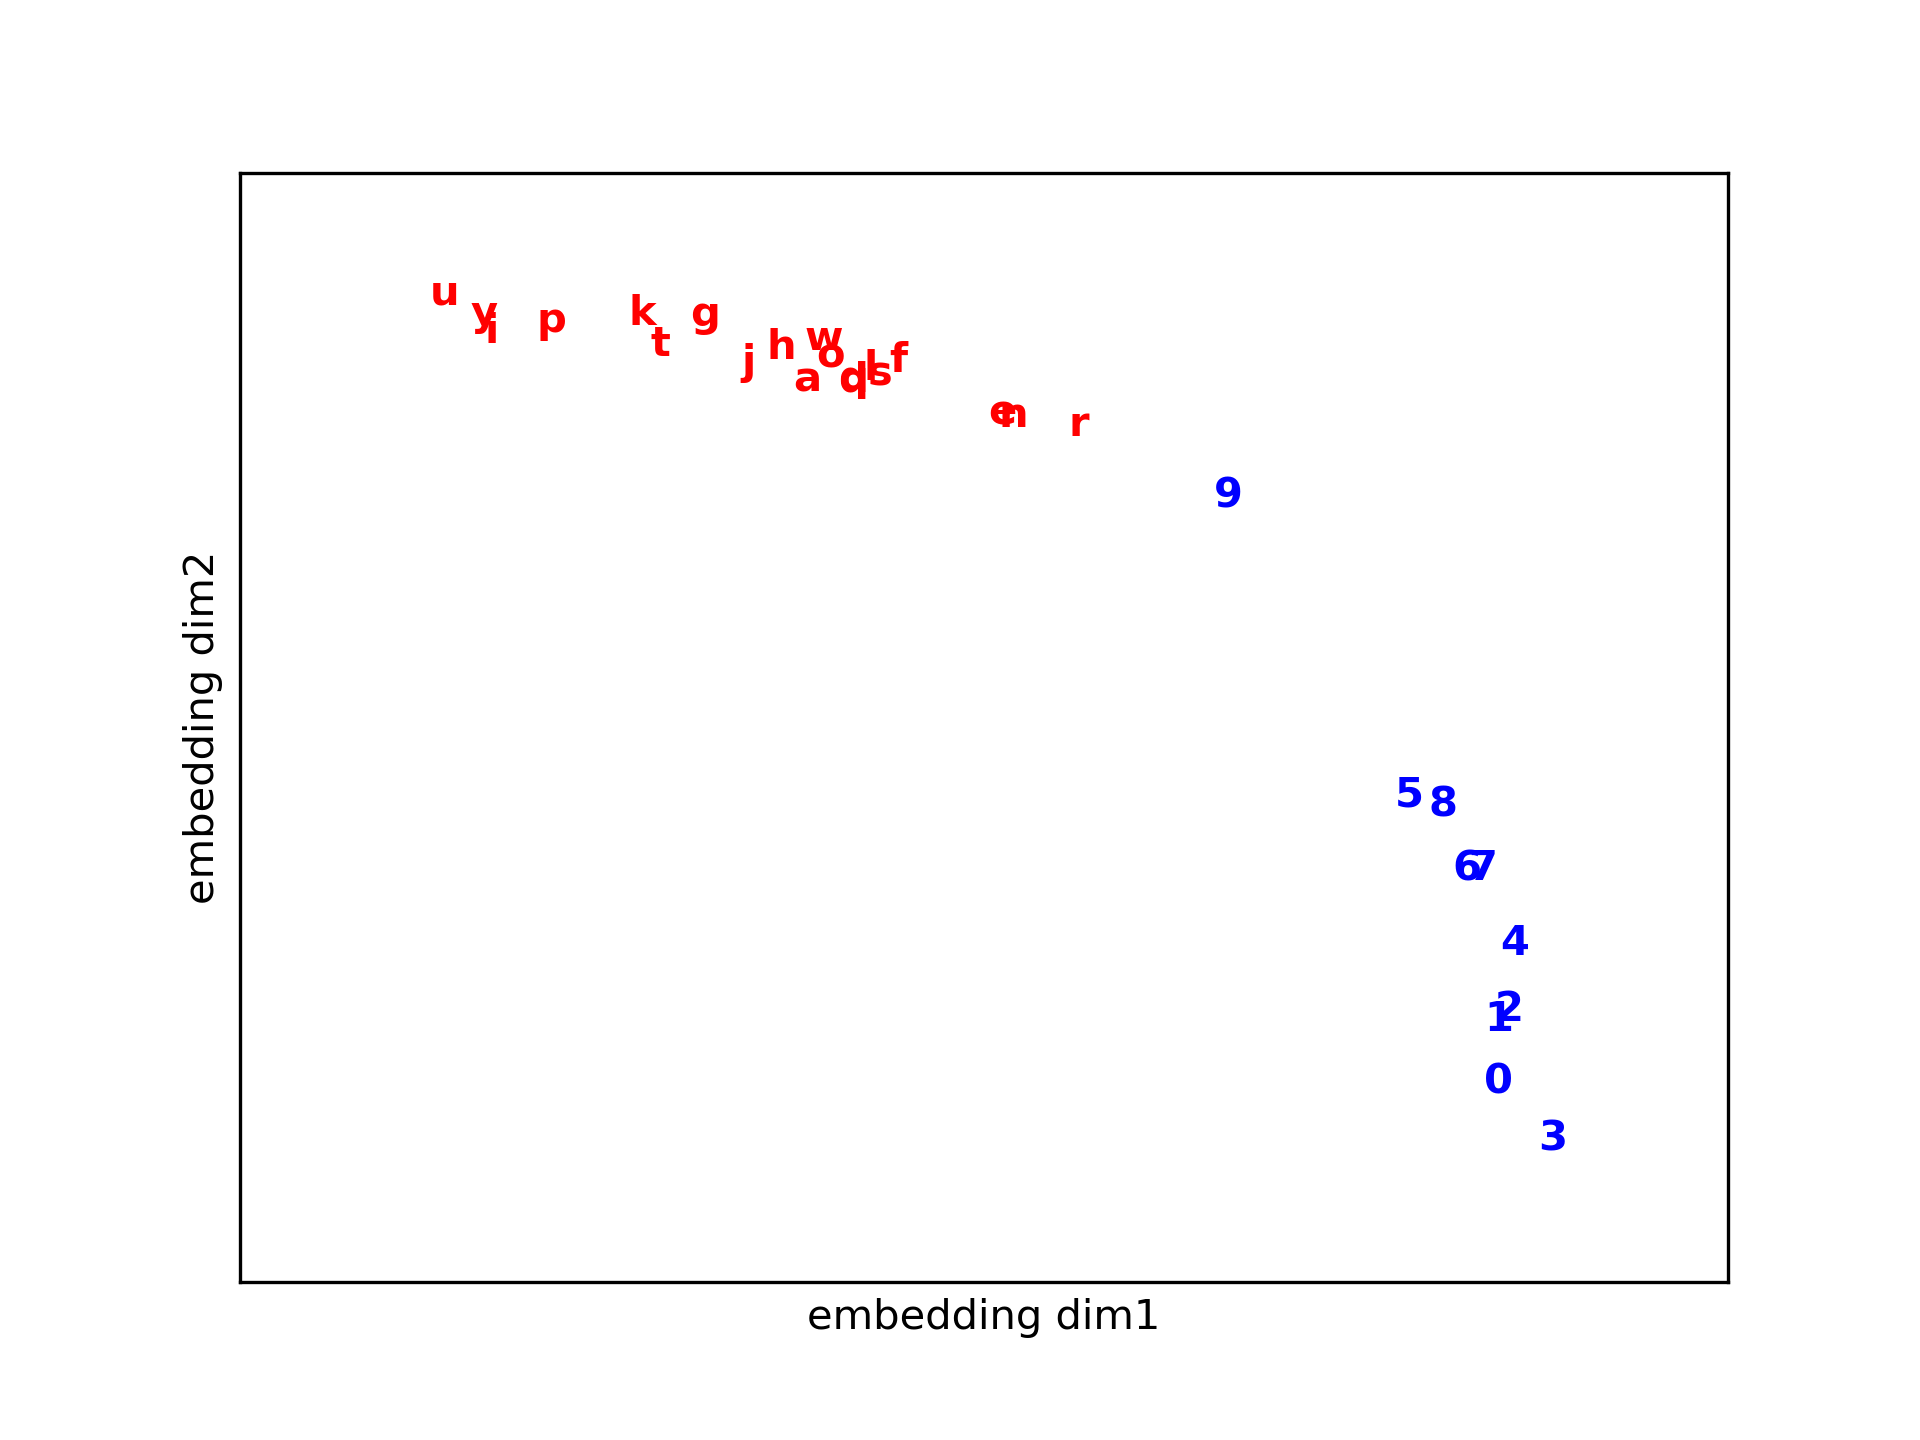
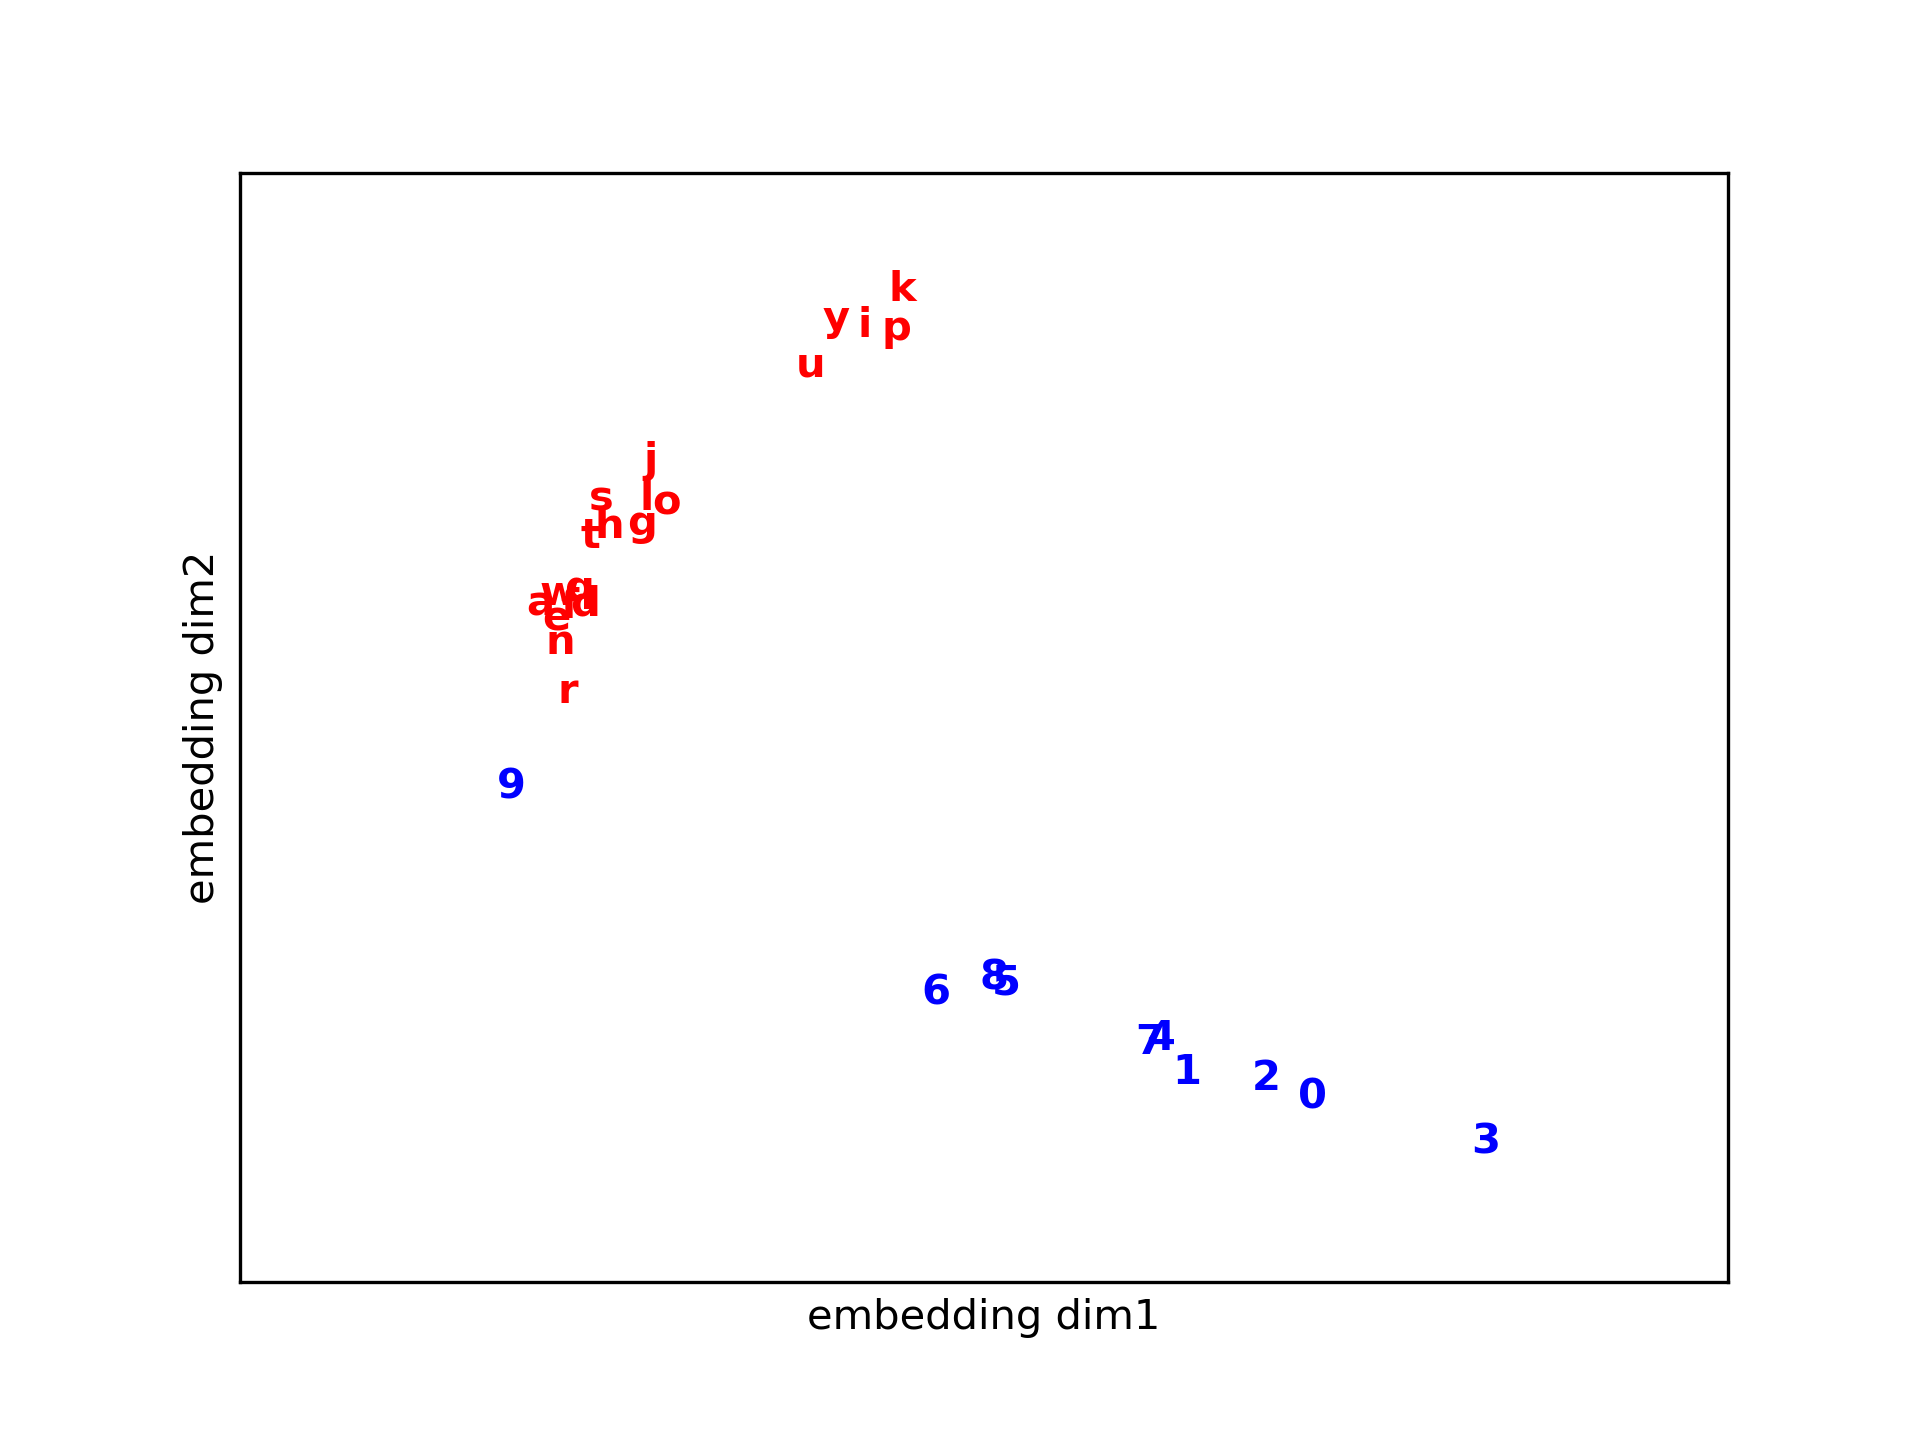
update

diff --git a/CBOW.py b/CBOW.py
@@ -1,7 +1,6 @@
+from tensorflow import keras
 import tensorflow as tf
-import numpy as np
-import matplotlib.pyplot as plt
-import itertools
+from utils import process_w2v_data, show_w2v_word_embedding
 
 corpus = [
     # numbers
@@ -14,88 +13,74 @@ corpus = [
     "9 3 3 0 1 4 7 8",
     "9 9 8 5 6 7 1 2 3 0 1 0",
 
-    # alphabets
-    "a t g q e h u f",
+    # alphabets, expecting that 9 is close to letters
+    "a t g q e h 9 u f",
     "e q y u o i p s",
-    "q o p l k j o k k o p",
+    "q o 9 p l k j o k k o p",
     "h g y i u t t a e q",
-    "i k d q r e e a d",
-    "o p d g s a f g a",
+    "i k d q r e 9 e a d",
+    "o p d g 9 s a f g a",
     "i u y g h k l a s w",
     "o l u y a o g f s",
     "o p i u y g d a s j d l",
-    "u k i l o l j s",
+    "u k i l o 9 l j s",
     "y g i s h k j l f r f",
+    "i o h n 9 9 d 9 f a 9",
 ]
 
-all_words = [sentence.split(" ") for sentence in corpus]
-all_words = np.array(list(itertools.chain(*all_words)))
-# vocab sort by decreasing frequency for the negative sampling below (nce_loss).
-vocab, v_count = np.unique(all_words, return_counts=True)
-vocab = vocab[np.argsort(v_count)[::-1]]
 
-print("all vocabularies sorted from more frequent to less frequent:\n", vocab)
-v2i = {v: i for i, v in enumerate(vocab)}
-i2v = {i: v for v, i in v2i.items()}
+class CBOW(keras.Model):
+    def __init__(self, v_dim, emb_dim):
+        super().__init__()
+        self.v_dim = v_dim
+        self.embeddings = keras.layers.Embedding(
+            input_dim=v_dim, output_dim=emb_dim,  # [n_vocab, emb_dim]
+            embeddings_initializer=tf.initializers.RandomNormal(0., 0.1),
+        )
 
-# pair data
-pairs = []
-skip_window = 2
-js = list(range(-skip_window, skip_window+1))
-js.remove(0)    # remove center
-for c in corpus:
-    words = c.split(" ")
-    w_idx = [v2i[w] for w in words]
-    for i in range(skip_window, len(w_idx)-skip_window):
-        context = []
-        for j in js:
-            context.append(w_idx[i+j])
-        pairs.append(context + [w_idx[i]])  # (contexts, center) or (feature, target)
-pairs = np.array(pairs)
-print("5 example pairs:\n", pairs[:5])
-x, y = pairs[:, :-1], pairs[:, -1]
+        # noise-contrastive estimation
+        self.nce_w = self.add_weight(
+            name="nce_w", shape=[v_dim, emb_dim],
+            initializer=tf.initializers.TruncatedNormal(0., 1.))  # [n_vocab, emb_dim]
+        self.nce_b = self.add_weight(
+            name="nce_b", shape=(v_dim,),
+            initializer=tf.initializers.Constant(0.1))  # [n_vocab, ]
 
-# inputs
-tfx = tf.placeholder(tf.int32, [None, 2*skip_window])
-tfy = tf.placeholder(tf.int32, [None, ])
+        self.opt = tf.optimizers.Adam(0.01)
 
-emb_dim = 2
-embeddings = tf.Variable(tf.random_uniform((len(vocab), emb_dim), -1., 1.))     # [n_vocab, emb_dim]
-span_embedded = tf.nn.embedding_lookup(embeddings, tfx)                         # [n, span, emb_dim]
-embedded = tf.reduce_mean(span_embedded, axis=1)                                # [n, emb_dim]
+    def call(self, x, training=None, mask=None):
+        # x.shape = [n, skip_window*2]
+        o = self.embeddings(x)          # [n, skip_window*2, emb_dim]
+        o = tf.reduce_mean(o, axis=1)   # [n, emb_dim]
+        return o
 
-# noise-contrastive estimation
-nce_w = tf.Variable(tf.random_uniform((len(vocab), emb_dim), -1., 1.))          # [n_vocab, emb_dim]
-nce_b = tf.Variable(tf.constant(0.1, shape=(len(vocab),)))                      # [n_vocab, ]
+    # negative sampling: take one positive label and num_sampled negative labels to compute the loss
+    # in order to reduce the computation of full softmax
+    def loss(self, x, y, training=None):
+        embedded = self.call(x, training)
+        return tf.reduce_mean(
+            tf.nn.nce_loss(
+                weights=self.nce_w, biases=self.nce_b, labels=tf.expand_dims(y, axis=1),
+                inputs=embedded, num_sampled=5, num_classes=self.v_dim))
 
-# negative sampling: take one positive label and num_sampled negative labels to compute the loss
-# in order to reduce the computation of full softmax
-loss = tf.reduce_mean(
-  tf.nn.nce_loss(weights=nce_w, biases=nce_b, labels=tf.expand_dims(tfy, axis=1),
-                 inputs=embedded, num_sampled=5, num_classes=len(vocab)))
+    def step(self, x, y):
+        with tf.GradientTape() as tape:
+            _loss: tf.Tensor = self.loss(x, y, True)
+            grads = tape.gradient(_loss, self.trainable_variables)
+        self.opt.apply_gradients(zip(grads, self.trainable_variables))
+        return _loss.numpy()
 
-train_op = tf.train.AdamOptimizer(0.01).minimize(loss)
-sess = tf.Session(config=tf.ConfigProto(device_count={'GPU': 0}))
-sess.run(tf.global_variables_initializer())
+
+data = process_w2v_data(corpus, skip_window=2, method="cbow")
+model = CBOW(data.num_word, 2)
+
 
 # training
-for i in range(3000):
-    b_idx = np.random.randint(0, len(x), 8)
-    _, loss_ = sess.run([train_op, loss], {tfx: x[b_idx], tfy: y[b_idx]})
-    if i % 200 == 0:
-        print("loss:", loss_)
+for t in range(2500):
+    bx, by = data.sample(8)
+    loss = model.step(bx, by)
+    if t % 200 == 0:
+        print("step: {} | loss: {}".format(t, loss))
 
 # plotting
-word_emb = sess.run(embeddings)
-for i in range(len(i2v)):
-    bc = "blue"
-    try:
-        int(i2v[i])
-    except ValueError:
-        bc = "red"
-    plt.text(word_emb[i, 0], word_emb[i, 1], s=i2v[i], color="w", weight="bold", backgroundcolor=bc)
-plt.xlim(word_emb[:, 0].min()-.5, word_emb[:, 0].max()+.5)
-plt.ylim(word_emb[:, 1].min()-.5, word_emb[:, 1].max()+.5)
-plt.xticks(())
-plt.yticks(())
-plt.show()
+show_w2v_word_embedding(model, data, "visual_helper/cbow.png")

diff --git a/TF-IDF.py b/TF-IDF.py
@@ -18,19 +18,18 @@ docs = [
 
 
 def get_tf(docs, method="log"):
+    # how frequent a word appears in a doc
     def safe_log(x):
         mask = x != 0
         x[mask] = np.log10(x[mask])
         return x
 
-    # different tf computation
-    def log_tf(tf): return 1 + safe_log(tf)
-
-    def augmented_tf(tf): return 0.5 + 0.5 * tf / np.max(tf, axis=1, keepdims=True)
-
-    def boolean_tf(tf): return np.minimum(tf, 1)
-
-    def log_avg_tf(tf): return (1 + safe_log(tf)) / (1 + safe_log(np.mean(tf, axis=1, keepdims=True)))
+    methods = {
+        "log": lambda x: 1 + safe_log(x),
+        "augmented": lambda x: 0.5 + 0.5 * x / np.max(x, axis=1, keepdims=True),
+        "boolean": lambda x: np.minimum(x, 1),
+        "log_avg": lambda x: (1 + safe_log(x)) / (1 + safe_log(np.mean(x, axis=1, keepdims=True))),
+    }
 
     docs_words = [d.replace(",", "").split(" ") for d in docs]
     vocab = set(itertools.chain(*docs_words))
@@ -44,27 +43,20 @@ def get_tf(docs, method="log"):
         for v in counter.keys():
             tf[v2i[v], i] = counter[v]
 
-    if method == "log":
-        weighted_tf = log_tf
-    elif method == "augmented":
-        weighted_tf = augmented_tf
-    elif method == "boolean":
-        weighted_tf = boolean_tf
-    elif method == "log_avg":
-        weighted_tf = log_avg_tf
-    else:
+    weighted_tf = methods.get(method, None)
+    if weighted_tf is None:
         raise ValueError
     return weighted_tf(tf), docs_words, v2i, i2v,
 
 
 # inverse document frequency
 def get_idf(docs_words, i2v, method="log"):
-    # different idf computation
-    def log_idf(df): return np.log10(len(docs) / df)
-
-    def prob_idf(df): return np.maximum(0, np.log((len(docs) - df) / df))
-
-    def length_norm(x): return x / np.sum(np.square(x))
+    # low idf for a word appears in more docs, mean less important
+    methods = {
+        "log": lambda x: np.log10(len(docs) / x),
+        "prob": lambda x: np.maximum(0, np.log((len(docs) - x) / x)),
+        "len_norm": lambda x: x / np.sum(np.square(x)),
+    }
 
     df = np.zeros((len(i2v),))
     for i in range(len(i2v)):
@@ -73,15 +65,10 @@ def get_idf(docs_words, i2v, method="log"):
             d_count += 1 if i2v[i] in d else 0
         df[i] = d_count
 
-    if method == "log":
-        idf = log_idf
-    elif method == "prob":
-        idf = prob_idf
-    elif method == "len_norm":
-        idf = length_norm
-    else:
+    idf_fn = methods.get(method, None)
+    if idf_fn is None:
         raise ValueError
-    return idf(df)
+    return idf_fn(df)
 
 
 def cosine_similarity(q, ds):

diff --git a/utils.py b/utils.py
@@ -183,7 +183,7 @@ class Dataset:
         return len(self.v2i)
 
 
-def process_skip_gram_data(corpus, skip_window=2):
+def process_w2v_data(corpus, skip_window=2, method="skip_gram"):
     all_words = [sentence.split(" ") for sentence in corpus]
     all_words = np.array(list(itertools.chain(*all_words)))
     # vocab sort by decreasing frequency for the negative sampling below (nce_loss).
@@ -197,21 +197,36 @@ def process_skip_gram_data(corpus, skip_window=2):
     # pair data
     pairs = []
     js = [i for i in range(-skip_window, skip_window + 1) if i != 0]
+
     for c in corpus:
         words = c.split(" ")
         w_idx = [v2i[w] for w in words]
-        for i in range(len(w_idx)):
-            for j in js:
-                if i + j < 0 or i + j >= len(w_idx):
-                    continue
-                pairs.append((w_idx[i], w_idx[i + j]))  # (center, context) or (feature, target)
+        if method == "skip_gram":
+            for i in range(len(w_idx)):
+                for j in js:
+                    if i + j < 0 or i + j >= len(w_idx):
+                        continue
+                    pairs.append((w_idx[i], w_idx[i + j]))  # (center, context) or (feature, target)
+        elif method.lower() == "cbow":
+            for i in range(skip_window, len(w_idx) - skip_window):
+                context = []
+                for j in js:
+                    context.append(w_idx[i + j])
+                pairs.append(context + [w_idx[i]])  # (contexts, center) or (feature, target)
+        else:
+            raise ValueError
     pairs = np.array(pairs)
     print("5 example pairs:\n", pairs[:5])
-    x, y = pairs[:, 0], pairs[:, 1]
+    if method.lower() == "skip_gram":
+        x, y = pairs[:, 0], pairs[:, 1]
+    elif method.lower() == "cbow":
+        x, y = pairs[:, :-1], pairs[:, -1]
+    else:
+        raise ValueError
     return Dataset(x, y, v2i, i2v)
 
 
-def show_skip_gram_word_embedding(model, data: Dataset):
+def show_w2v_word_embedding(model, data: Dataset, path):
     word_emb = model.embeddings.get_weights()[0]
     for i in range(data.num_word):
         c = "blue"
@@ -226,7 +241,6 @@ def show_skip_gram_word_embedding(model, data: Dataset):
     plt.yticks(())
     plt.xlabel("embedding dim1")
     plt.ylabel("embedding dim2")
-    path = "visual_helper/skip_gram.png"
     os.makedirs(os.path.dirname(path), exist_ok=True)
     plt.savefig(path, dpi=300, format="png")
     plt.show()

diff --git a/Skip-gram.py b/Skip-gram.py
@@ -1,6 +1,6 @@
 import tensorflow as tf
 from tensorflow import keras
-from utils import process_skip_gram_data, show_skip_gram_word_embedding
+from utils import process_w2v_data, show_w2v_word_embedding
 
 corpus = [
     # numbers
@@ -56,6 +56,7 @@ class SkipGram(keras.Model):
         self.opt = tf.optimizers.Adam(0.01)
 
     def call(self, x, training=None, mask=None):
+        # x.shape = [n, ]
         o = self.embeddings(x)      # [n, emb_dim]
         return o
 
@@ -76,7 +77,7 @@ class SkipGram(keras.Model):
         return _loss.numpy()
 
 
-data = process_skip_gram_data(corpus, skip_window=2)
+data = process_w2v_data(corpus, skip_window=2, method="skip_gram")
 model = SkipGram(data.num_word, 2)
 
 # training
@@ -87,4 +88,4 @@ for t in range(2500):
         print("step: {} | loss: {}".format(t, loss))
 
 # plotting
-show_skip_gram_word_embedding(model, data)
+show_w2v_word_embedding(model, data, "visual_helper/skip_gram.png")
